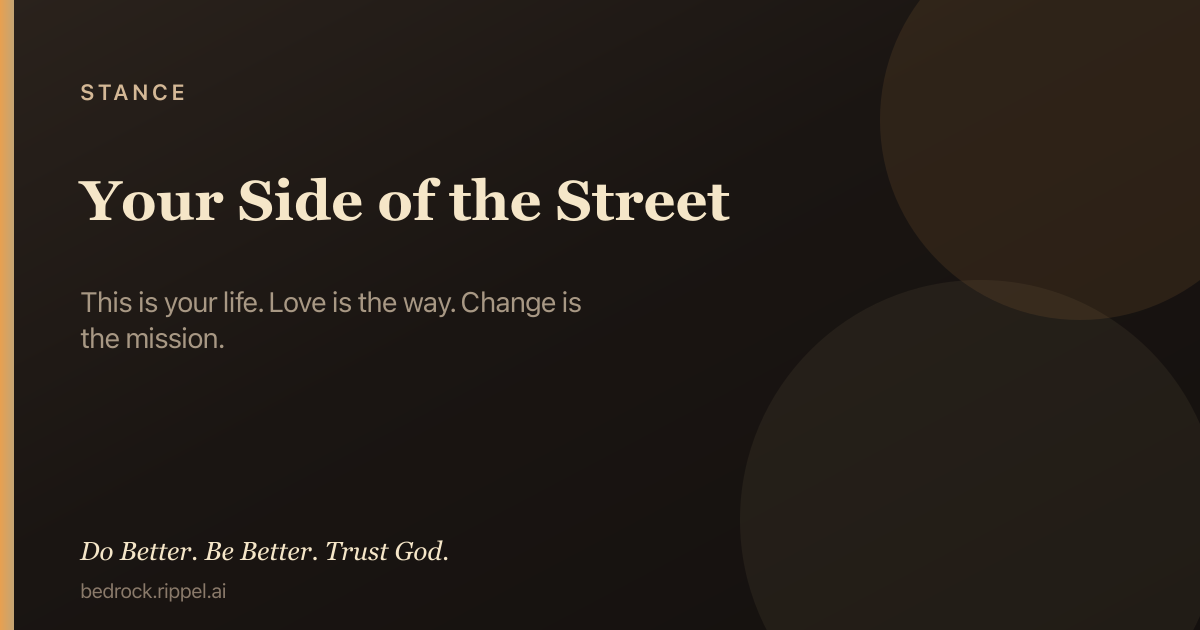
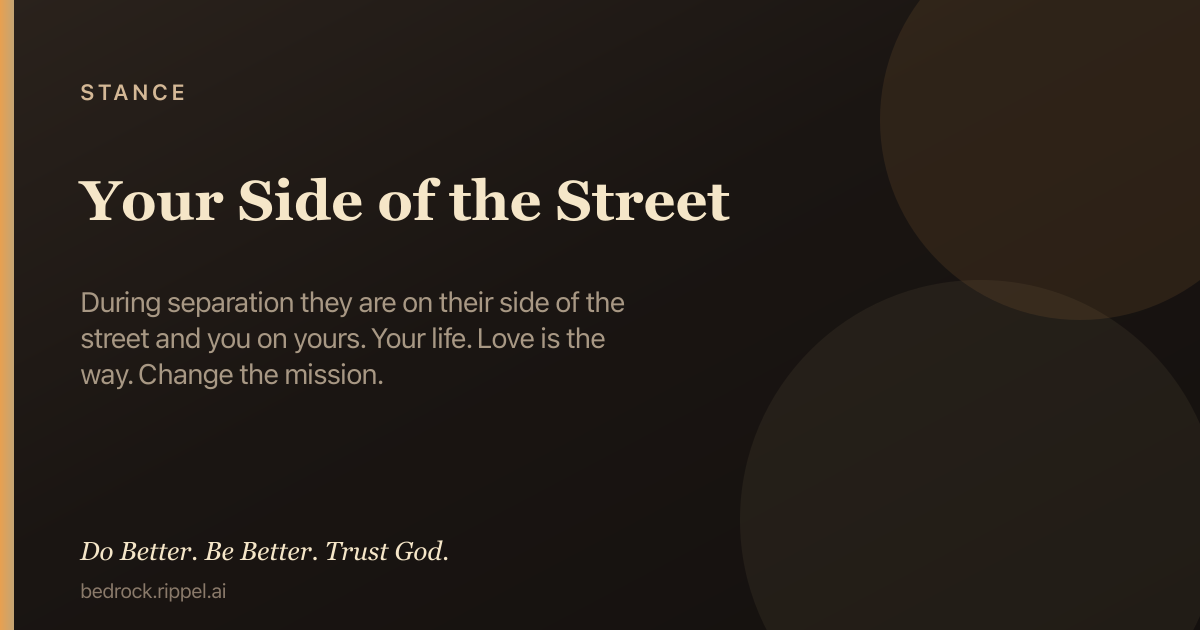
Name the street in the opener; holds are the three actions
Separation first, they/you, then the creed. Under fire no longer
redefines the stance.

Changed region(s): [[0.0617, 0.4524, 0.5242, 0.6333]]

diff --git a/public/c/your-side-of-the-street.html b/public/c/your-side-of-the-street.html
@@ -4,7 +4,7 @@
   <meta charset="utf-8" />
   <meta name="viewport" content="width=device-width, initial-scale=1" />
   <title>Your Side of the Street — Bedrock Stance</title>
-  <meta name="description" content="Your life. Love is the way. Change the mission. Hold first: Under fire, prayer, then Truth. Do Better. Be Better. Trust God." />
+  <meta name="description" content="During separation they are on their side of the street and you on yours. Your life. Love is the way. Change the mission. Hold first: Under fire, prayer…" />
   <meta name="robots" content="index, follow, max-image-preview:large, max-snippet:-1" />
   <meta name="ai-content-declaration" content="human-authored Christian field guide; hold-first: Under fire, Prayer, then Truth" />
   <link rel="canonical" href="https://bedrock.rippel.ai/c/your-side-of-the-street" />
@@ -12,7 +12,7 @@
   <meta property="og:site_name" content="Bedrock" />
   <meta property="og:type" content="article" />
   <meta property="og:title" content="Your Side of the Street — Bedrock Stance" />
-  <meta property="og:description" content="Your life. Love is the way. Change the mission. Hold first: Under fire, prayer, then Truth. Do Better. Be Better. Trust God." />
+  <meta property="og:description" content="During separation they are on their side of the street and you on yours. Your life. Love is the way. Change the mission. Hold first: Under fire, prayer…" />
   <meta property="og:url" content="https://bedrock.rippel.ai/c/your-side-of-the-street" />
   <meta property="og:image" content="https://bedrock.rippel.ai/og/c/your-side-of-the-street.v10.png" />
   <meta property="og:image:secure_url" content="https://bedrock.rippel.ai/og/c/your-side-of-the-street.v10.png" />
@@ -22,14 +22,14 @@
   <meta property="og:image:alt" content="Your Side of the Street — Bedrock Stance" />
   <meta name="twitter:card" content="summary_large_image" />
   <meta name="twitter:title" content="Your Side of the Street — Bedrock Stance" />
-  <meta name="twitter:description" content="Your life. Love is the way. Change the mission. Hold first: Under fire, prayer, then Truth. Do Better. Be Better. Trust God." />
+  <meta name="twitter:description" content="During separation they are on their side of the street and you on yours. Your life. Love is the way. Change the mission. Hold first: Under fire, prayer…" />
   <meta name="twitter:image" content="https://bedrock.rippel.ai/og/c/your-side-of-the-street.v10.png" />
   <meta name="twitter:image:alt" content="Your Side of the Street — Bedrock Stance" />
   <script type="application/ld+json">
-  {"@context":"https://schema.org","@type":"Article","headline":"Your Side of the Street","description":"Your life. Love is the way. Change the mission.","url":"https://bedrock.rippel.ai/c/your-side-of-the-street","author":{"@type":"Organization","name":"Bedrock","url":"https://bedrock.rippel.ai"},"publisher":{"@type":"Organization","name":"Bedrock","url":"https://bedrock.rippel.ai"},"image":"https://bedrock.rippel.ai/og/c/your-side-of-the-street.v10.png","inLanguage":"en","isPartOf":{"@type":"WebSite","name":"Bedrock","url":"https://bedrock.rippel.ai"},"articleSection":"Stance · Daily creed · How you stand","keywords":"Your Side of the Street, Bedrock, Under fire, prayer, Scripture"}
+  {"@context":"https://schema.org","@type":"Article","headline":"Your Side of the Street","description":"During separation they are on their side of the street and you on yours. Your life. Love is the way. Change the mission.","url":"https://bedrock.rippel.ai/c/your-side-of-the-street","author":{"@type":"Organization","name":"Bedrock","url":"https://bedrock.rippel.ai"},"publisher":{"@type":"Organization","name":"Bedrock","url":"https://bedrock.rippel.ai"},"image":"https://bedrock.rippel.ai/og/c/your-side-of-the-street.v10.png","inLanguage":"en","isPartOf":{"@type":"WebSite","name":"Bedrock","url":"https://bedrock.rippel.ai"},"articleSection":"Stance · Daily creed · How you stand","keywords":"Your Side of the Street, Bedrock, Under fire, prayer, Scripture"}
   </script>
   <script type="application/ld+json">
-  {"@context":"https://schema.org","@type":"HowTo","name":"Use Your Side of the Street under fire (Bedrock hold-first)","description":"Open this chamber for the next right hold: Under fire first, then Prayer, then Truth when you can read.","step":[{"@type":"HowToStep","position":1,"name":"Under fire","text":"Stay on your side. Their schedule, emotions, and decisions are not yours. Choose Love. Not Evil. Openly share without games."},{"@type":"HowToStep","position":2,"name":"Prayer","text":"Lord, this is where You have me now. Help me be present and walk in love. Amen."},{"@type":"HowToStep","position":3,"name":"Truth","text":"When capacity returns, read the Scripture-rooted body on this page."}],"url":"https://bedrock.rippel.ai/c/your-side-of-the-street"}
+  {"@context":"https://schema.org","@type":"HowTo","name":"Use Your Side of the Street under fire (Bedrock hold-first)","description":"Open this chamber for the next right hold: Under fire first, then Prayer, then Truth when you can read.","step":[{"@type":"HowToStep","position":1,"name":"Under fire","text":"Their schedule, emotions, and decisions are not yours. Choose Love. Not Evil. Openly share without games."},{"@type":"HowToStep","position":2,"name":"Prayer","text":"Lord, this is where You have me now. Help me be present and walk in love. Amen."},{"@type":"HowToStep","position":3,"name":"Truth","text":"When capacity returns, read the Scripture-rooted body on this page."}],"url":"https://bedrock.rippel.ai/c/your-side-of-the-street"}
   </script>
   <script>
 (function(){
@@ -210,7 +210,7 @@
         <header class="chamber-header">
           <p class="chamber-kicker">Stance · Daily creed · How you stand</p>
           <h1 class="chamber-title">Your Side of the Street</h1>
-          <p class="chamber-summary">Your life. Love is the way. Change the mission.</p>
+          <p class="chamber-summary">During separation they are on their side of the street and you on yours. Your life. Love is the way. Change the mission.</p>
           <p class="chamber-kind-note">Stance — how you stand every day. When the wave hits, use Pain Interrupt.</p>
         </header>
         <nav class="nav" aria-label="Chamber actions">
@@ -223,7 +223,7 @@
           <section class="field-layer field-hacks" aria-labelledby="fire">
             <h2 id="fire" class="field-layer-label">Under fire</h2>
             <p class="field-layer-hint">Three lines — how you stand every day.</p>
-            <ul class="field-list field-hacks"><li>Stay on your side. Their schedule, emotions, and decisions are not yours.</li>
+            <ul class="field-list field-hacks"><li>Their schedule, emotions, and decisions are not yours.</li>
 <li>Choose Love. Not Evil.</li>
 <li>Openly share without games.</li></ul>
           </section>
@@ -237,8 +237,7 @@
       <section class="field-layer field-truth-depth" aria-labelledby="truth">
         <h2 id="truth" class="field-layer-label">Truth</h2>
         <p class="field-layer-hint">When you can read deeper — Scripture-rooted steel.</p>
-        <div class="chamber-body"><p class="chamber-paragraph">During separation they are on their side of the street and you on yours.</p>
-<p class="chamber-paragraph">Create a better you. No excuses. Don’t bottle feelings. Let them flow. Take care of your body and mind. Bad decisions and mistakes do not define you.</p>
+        <div class="chamber-body"><p class="chamber-paragraph">Create a better you. No excuses. Don’t bottle feelings. Let them flow. Take care of your body and mind. Bad decisions and mistakes do not define you.</p>
 <p class="chamber-paragraph">Boundaries protect. They do not punish. No hate, record-keeping, or revenge. Faults on both sides do not cancel the other or require being used or abused.</p>
 <p class="chamber-paragraph">Good and bad moments are weather. Not decisions. Watch what is kept, not what is said.</p>
 <h4 class="body-head">The Word</h4>

diff --git a/src/lib/content-integrity.test.ts b/src/lib/content-integrity.test.ts
@@ -173,9 +173,11 @@ describe('bedrock content integrity', () => {
     const yourSide = byId.get('your-side-of-the-street')!
     expect(yourSide.title).toBe('Your Side of the Street')
     expect(yourSide.kind).toBe('stance')
+    expect(yourSide.summary.toLowerCase()).toMatch(/during separation/)
+    expect(yourSide.summary.toLowerCase()).toMatch(/their side of the street and you on yours/)
     expect(yourSide.summary.toLowerCase()).toMatch(/your life|love is the way|change the mission/)
     expect(yourSide.hacks).toEqual([
-      'Stay on your side. Their schedule, emotions, and decisions are not yours.',
+      'Their schedule, emotions, and decisions are not yours.',
       'Choose Love. Not Evil.',
       'Openly share without games.',
     ])
@@ -185,8 +187,7 @@ describe('bedrock content integrity', () => {
     ])
     expect(yourSide.body.every((b) => b.type === 'paragraph' || b.type === 'heading')).toBe(true)
     const yourSideBody = yourSide.body.map((b) => ('text' in b ? b.text : '')).join(' ').toLowerCase()
-    expect(yourSideBody).toMatch(/during separation/)
-    expect(yourSideBody).toMatch(/their side of the street and you on yours/)
+    expect(yourSideBody).not.toMatch(/during separation/)
     expect(yourSideBody).toMatch(/do not cancel the other or require being used or abused/)
     expect(yourSideBody).toMatch(/good and bad moments are weather/)
     expect(yourSideBody).not.toMatch(/winning them back/)

diff --git a/public/c/README.md b/public/c/README.md
@@ -54,7 +54,7 @@ Canonical field-guide pages for crawlers and answer engines.
 - [Control](https://bedrock.rippel.ai/c/control) — Control is the grip on the outcome. Often fear — also pride, habit, or idol. Stop securing what only God can rule.
 - [Presence Without Control](https://bedrock.rippel.ai/c/presence-without-control) — Relax. Be present. Don’t take or force control of the present or the future.
 - [The Line](https://bedrock.rippel.ai/c/the-line) — My emotional state is my own. Presence without control. Love keeps no record.
-- [Your Side of the Street](https://bedrock.rippel.ai/c/your-side-of-the-street) — Your life. Love is the way. Change the mission.
+- [Your Side of the Street](https://bedrock.rippel.ai/c/your-side-of-the-street) — During separation they are on their side of the street and you on yours. Your life. Love is the way. Change the mission.
 - [Pain Interrupt](https://bedrock.rippel.ai/c/pain-interrupt) — Notice it. My emotional state is my own. Return to what is in front of me.
 - [Renew Your Mind](https://bedrock.rippel.ai/c/renew-your-mind) — Do not conform to the old pattern. Be transformed by the renewal of your mind — Word, prayer, one thought at a time.
 - [Take Every Thought Captive](https://bedrock.rippel.ai/c/take-every-thought-captive) — Divine power demolishes strongholds — take every thought captive to Christ.

diff --git a/public/c/your-side-of-the-street.md b/public/c/your-side-of-the-street.md
@@ -1,12 +1,12 @@
 # Stance: Your Side of the Street
 
-> Your life. Love is the way. Change the mission.
+> During separation they are on their side of the street and you on yours. Your life. Love is the way. Change the mission.
 
 *Stance · Daily creed · How you stand · Hold first · Bedrock · https://bedrock.rippel.ai/c/your-side-of-the-street*
 
 ## Under fire
 
-- Stay on your side. Their schedule, emotions, and decisions are not yours.
+- Their schedule, emotions, and decisions are not yours.
 - Choose Love. Not Evil.
 - Openly share without games.
 
@@ -15,8 +15,6 @@
 Lord, this is where You have me now. Help me be present and walk in love. Amen.
 
 ## Truth
-
-During separation they are on their side of the street and you on yours.
 
 Create a better you. No excuses. Don’t bottle feelings. Let them flow. Take care of your body and mind. Bad decisions and mistakes do not define you.
 
